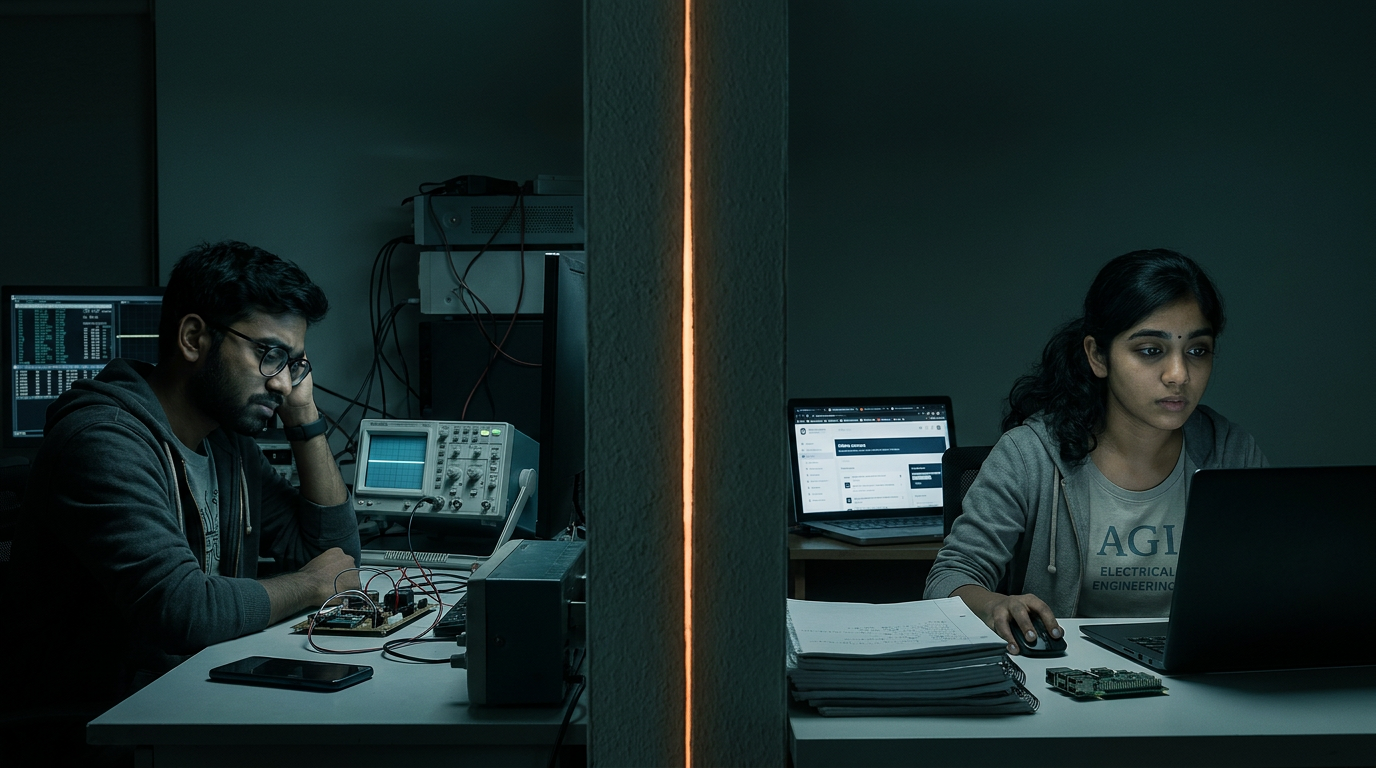
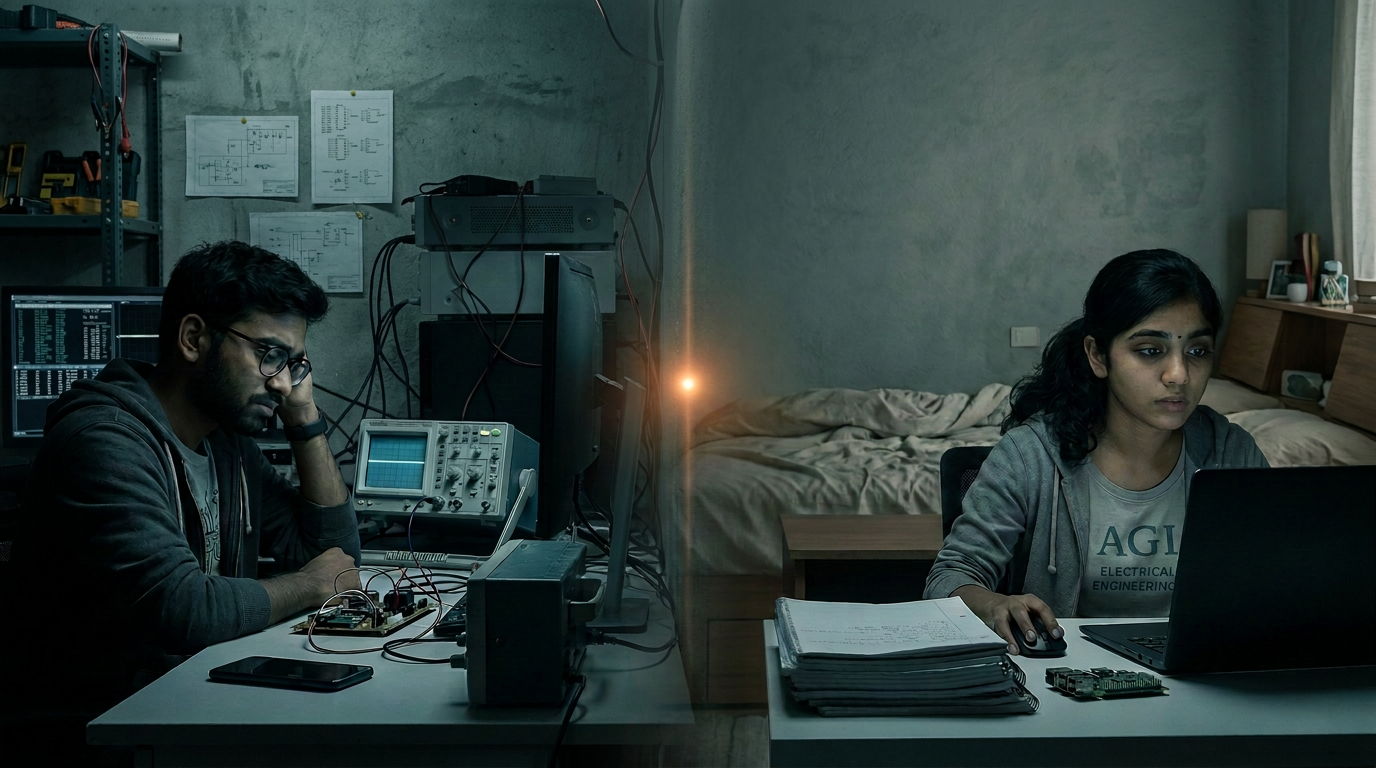
Refine hero: headline anchored near nav, card copy, mobile card clipping fix
Follow-up to the v4 static hero — three corrections from the latest brief:

- Headline moves from vertically-centered to anchored ~24px below the
  nav (lg:items-start + lg:pt-[96px]) and drops to
  clamp(2rem, 4vw, 3.25rem) so the whole text block clears above the
  man's face in the photo instead of overlapping it.
- Floating card content changes from "59 DAYS" / a rupee figure to
  "STUCK → PLACED" / "The work didn't change. The visibility did." —
  deliberately dropping the day count and rupee figure per the brief.
- Fixed a real mobile bug this surfaced: the taller two-line card
  content pushed it up into the trust line above (the very short
  mobile image row made the old bottom:8%-of-container math swing the
  card way too high), and the section's overflow-hidden was also
  clipping the card's lower half. Extracted a shared StatCard
  component with two instances — one anchored to the mobile image
  row specifically (hangs mostly below it via translate-y-[35%]) with
  an explicit flow spacer so overflow-hidden has room to not clip it,
  one anchored to the desktop full-bleed image at bottom:8% as before.

Also picked up the current pagla-pagli-divided-world.png (image itself
was updated) and its previous version kept alongside as -old.png.

Note: left public/frames/hero-sequence/ (64 frames, ~525MB) and
esc-logo-light.png uncommitted — clearly prep for a later step, but
that much binary data shouldn't go into git history without an
explicit decision on it first.

diff --git a/esc/components/sections/Hero.tsx b/esc/components/sections/Hero.tsx
@@ -1,19 +1,45 @@
+import type { CSSProperties } from "react";
 import Image from "next/image";
 import Nav from "@/components/layout/Nav";
 import Button from "@/components/ui/Button";
+
+function StatCard({
+  className = "",
+  style,
+}: {
+  className?: string;
+  style?: CSSProperties;
+}) {
+  return (
+    <div
+      className={`w-[260px] rounded-[12px] bg-esc-paper p-5 shadow-esc-lg sm:w-[300px] sm:p-6 ${className}`}
+      style={style}
+    >
+      <span
+        className="block font-display uppercase leading-none text-esc-orange"
+        style={{ fontSize: "2rem" }}
+      >
+        Stuck <span className="mx-2">→</span> Placed
+      </span>
+      <p className="mt-3 font-body text-sm text-esc-dark-teal">
+        The work didn&apos;t change. The visibility did.
+      </p>
+    </div>
+  );
+}
 
 export default function Hero() {
   return (
     <section className="relative w-full overflow-hidden bg-esc-paper lg:min-h-screen">
       <Nav />
 
-      {/* Content block — normal flow above the image on mobile, absolute overlay on desktop */}
-      <div className="relative z-10 px-6 py-10 sm:px-10 lg:absolute lg:inset-0 lg:flex lg:items-center lg:px-16 lg:py-0">
+      {/* Content block — normal flow above the image on mobile, absolute overlay anchored near the nav on desktop */}
+      <div className="relative z-10 px-6 py-10 sm:px-10 lg:absolute lg:inset-0 lg:flex lg:items-start lg:px-16 lg:pb-0 lg:pt-[96px]">
         <div className="lg:max-w-[600px]">
           <h1
             className="font-display uppercase text-esc-dark-teal lg:text-esc-paper"
             style={{
-              fontSize: "clamp(2.5rem, 5vw, 4rem)",
+              fontSize: "clamp(2rem, 4vw, 3.25rem)",
               lineHeight: 0.98,
               letterSpacing: "-0.02em",
               maxWidth: "600px",
@@ -56,29 +82,40 @@ export default function Hero() {
       {/* Hero image — two uncropped portraits side by side on mobile, single full-bleed combined image on desktop */}
       <div className="relative w-full lg:absolute lg:inset-0 lg:z-0 lg:h-auto">
         {/* Mobile / tablet: separate portraits, each column matches the image's own 1376:768
-            aspect ratio exactly, so it fills the frame with zero cropping and zero letterboxing */}
-        <div className="flex w-full gap-2 sm:gap-3 lg:hidden">
-          <div className="relative flex-1" style={{ aspectRatio: "1376 / 768" }}>
-            <Image
-              src="/images/hero/pagli-hero.png"
-              alt="Pagli, working at her desk"
-              fill
-              priority
-              className="object-cover"
-              sizes="50vw"
-            />
+            aspect ratio exactly, so it fills the frame with zero cropping and zero letterboxing.
+            This wrapper is its own positioning context for the stat card below. */}
+        <div className="relative lg:hidden">
+          <div className="flex w-full gap-2 sm:gap-3">
+            <div className="relative flex-1" style={{ aspectRatio: "1376 / 768" }}>
+              <Image
+                src="/images/hero/pagli-hero.png"
+                alt="Pagli, working at her desk"
+                fill
+                priority
+                className="object-cover"
+                sizes="50vw"
+              />
+            </div>
+            <div className="relative flex-1" style={{ aspectRatio: "1376 / 768" }}>
+              <Image
+                src="/images/hero/pagla-hero.png"
+                alt="Pagla, working at his desk"
+                fill
+                priority
+                className="object-cover"
+                sizes="50vw"
+              />
+            </div>
           </div>
-          <div className="relative flex-1" style={{ aspectRatio: "1376 / 768" }}>
-            <Image
-              src="/images/hero/pagla-hero.png"
-              alt="Pagla, working at his desk"
-              fill
-              priority
-              className="object-cover"
-              sizes="50vw"
-            />
-          </div>
+
+          {/* Card hangs mostly below the (very short) image row rather than straddling deep
+              into it, so it can't reach up into the text block above */}
+          <StatCard className="absolute z-10 left-1/2 bottom-0 -translate-x-1/2 translate-y-[35%]" />
         </div>
+
+        {/* Spacer reserving room in normal document flow for the card's overflow below the image
+            row, so the section (overflow-hidden) doesn't clip it */}
+        <div className="h-20 sm:h-24 lg:hidden" aria-hidden />
 
         {/* Desktop: single full-bleed combined image */}
         <div className="relative hidden lg:block lg:h-full lg:w-full">
@@ -100,19 +137,9 @@ export default function Hero() {
                 "linear-gradient(to right, rgba(0,0,0,0.72) 0%, rgba(0,0,0,0.6) 22%, rgba(0,0,0,0) 48%)",
             }}
           />
-        </div>
 
-        {/* Floating stat card — bottom-center, attached to the image block at every breakpoint */}
-        <div
-          className="absolute z-10 w-[260px] -translate-x-1/2 rounded-[12px] bg-esc-paper p-6 shadow-esc-lg sm:w-[300px]"
-          style={{ left: "50%", bottom: "8%" }}
-        >
-          <span className="block font-display uppercase leading-none text-esc-orange" style={{ fontSize: "2.25rem" }}>
-            59 days
-          </span>
-          <p className="mt-2 font-body text-sm text-esc-dark-teal">
-            Stuck at ₹4.7L for 3 years — then placed.
-          </p>
+          {/* Card straddles the image's light seam, 8% up from the bottom of the full-bleed image */}
+          <StatCard className="absolute z-10 left-1/2 -translate-x-1/2" style={{ bottom: "8%" }} />
         </div>
       </div>
     </section>
